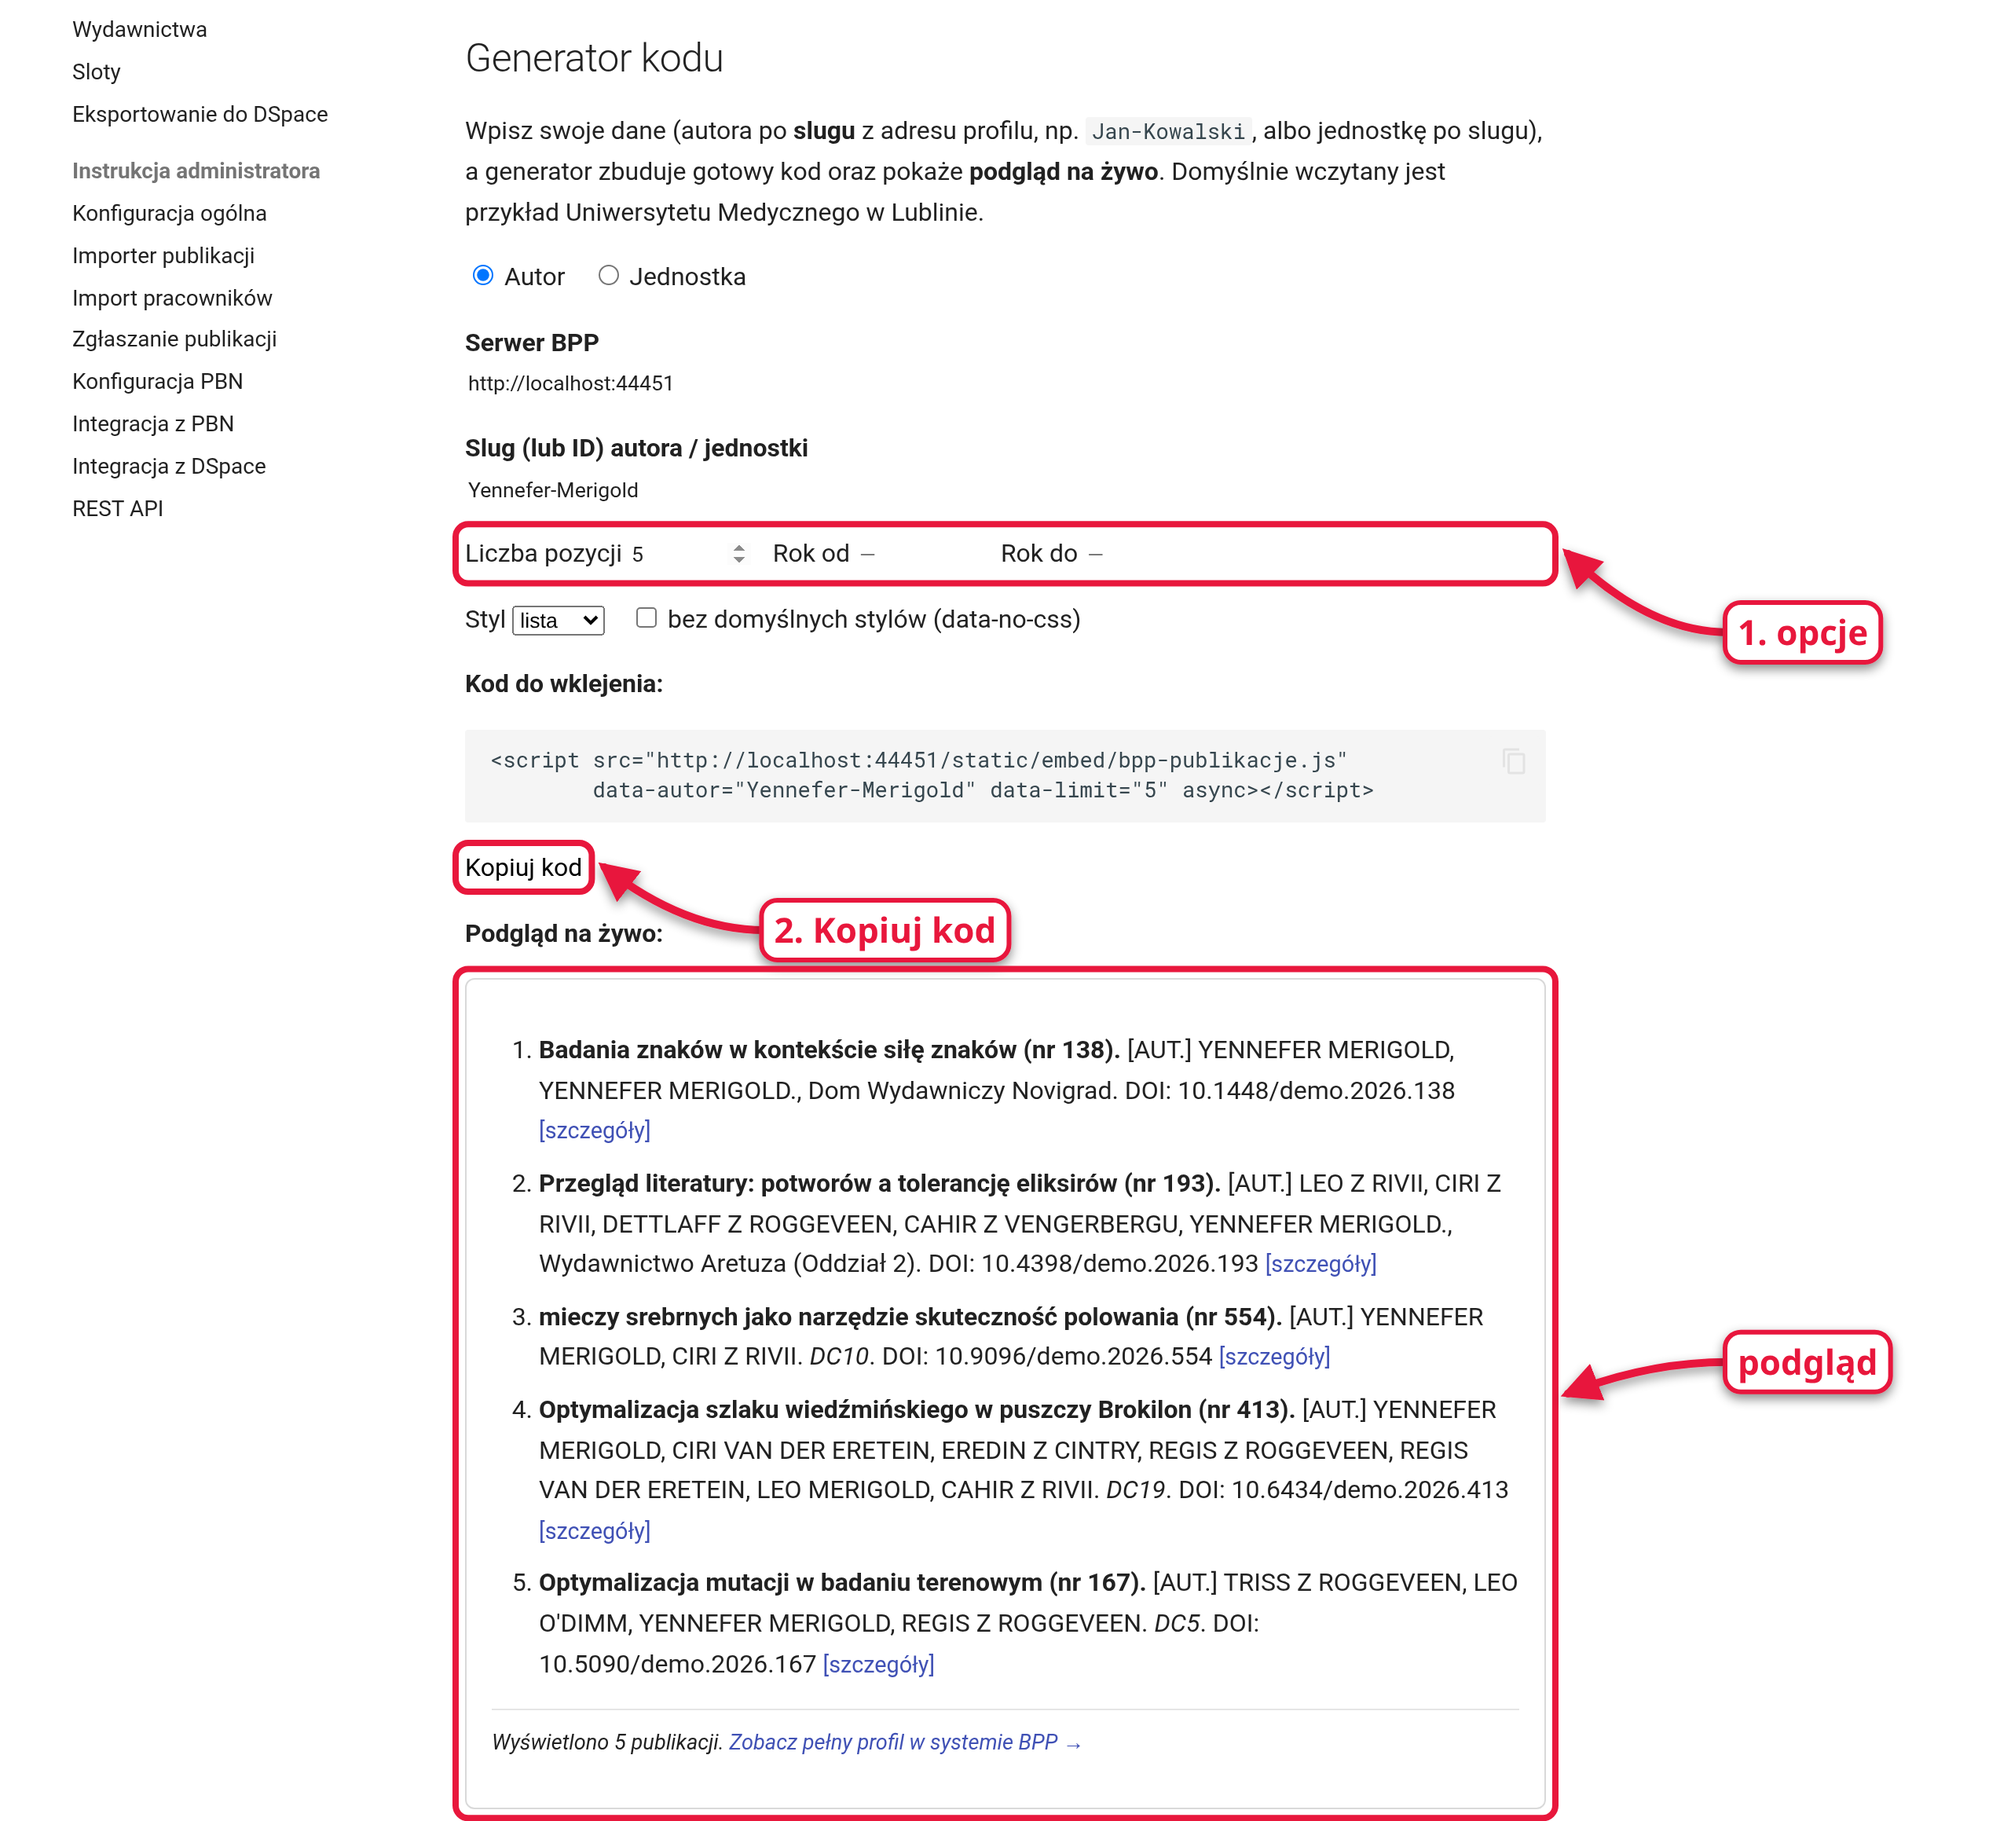
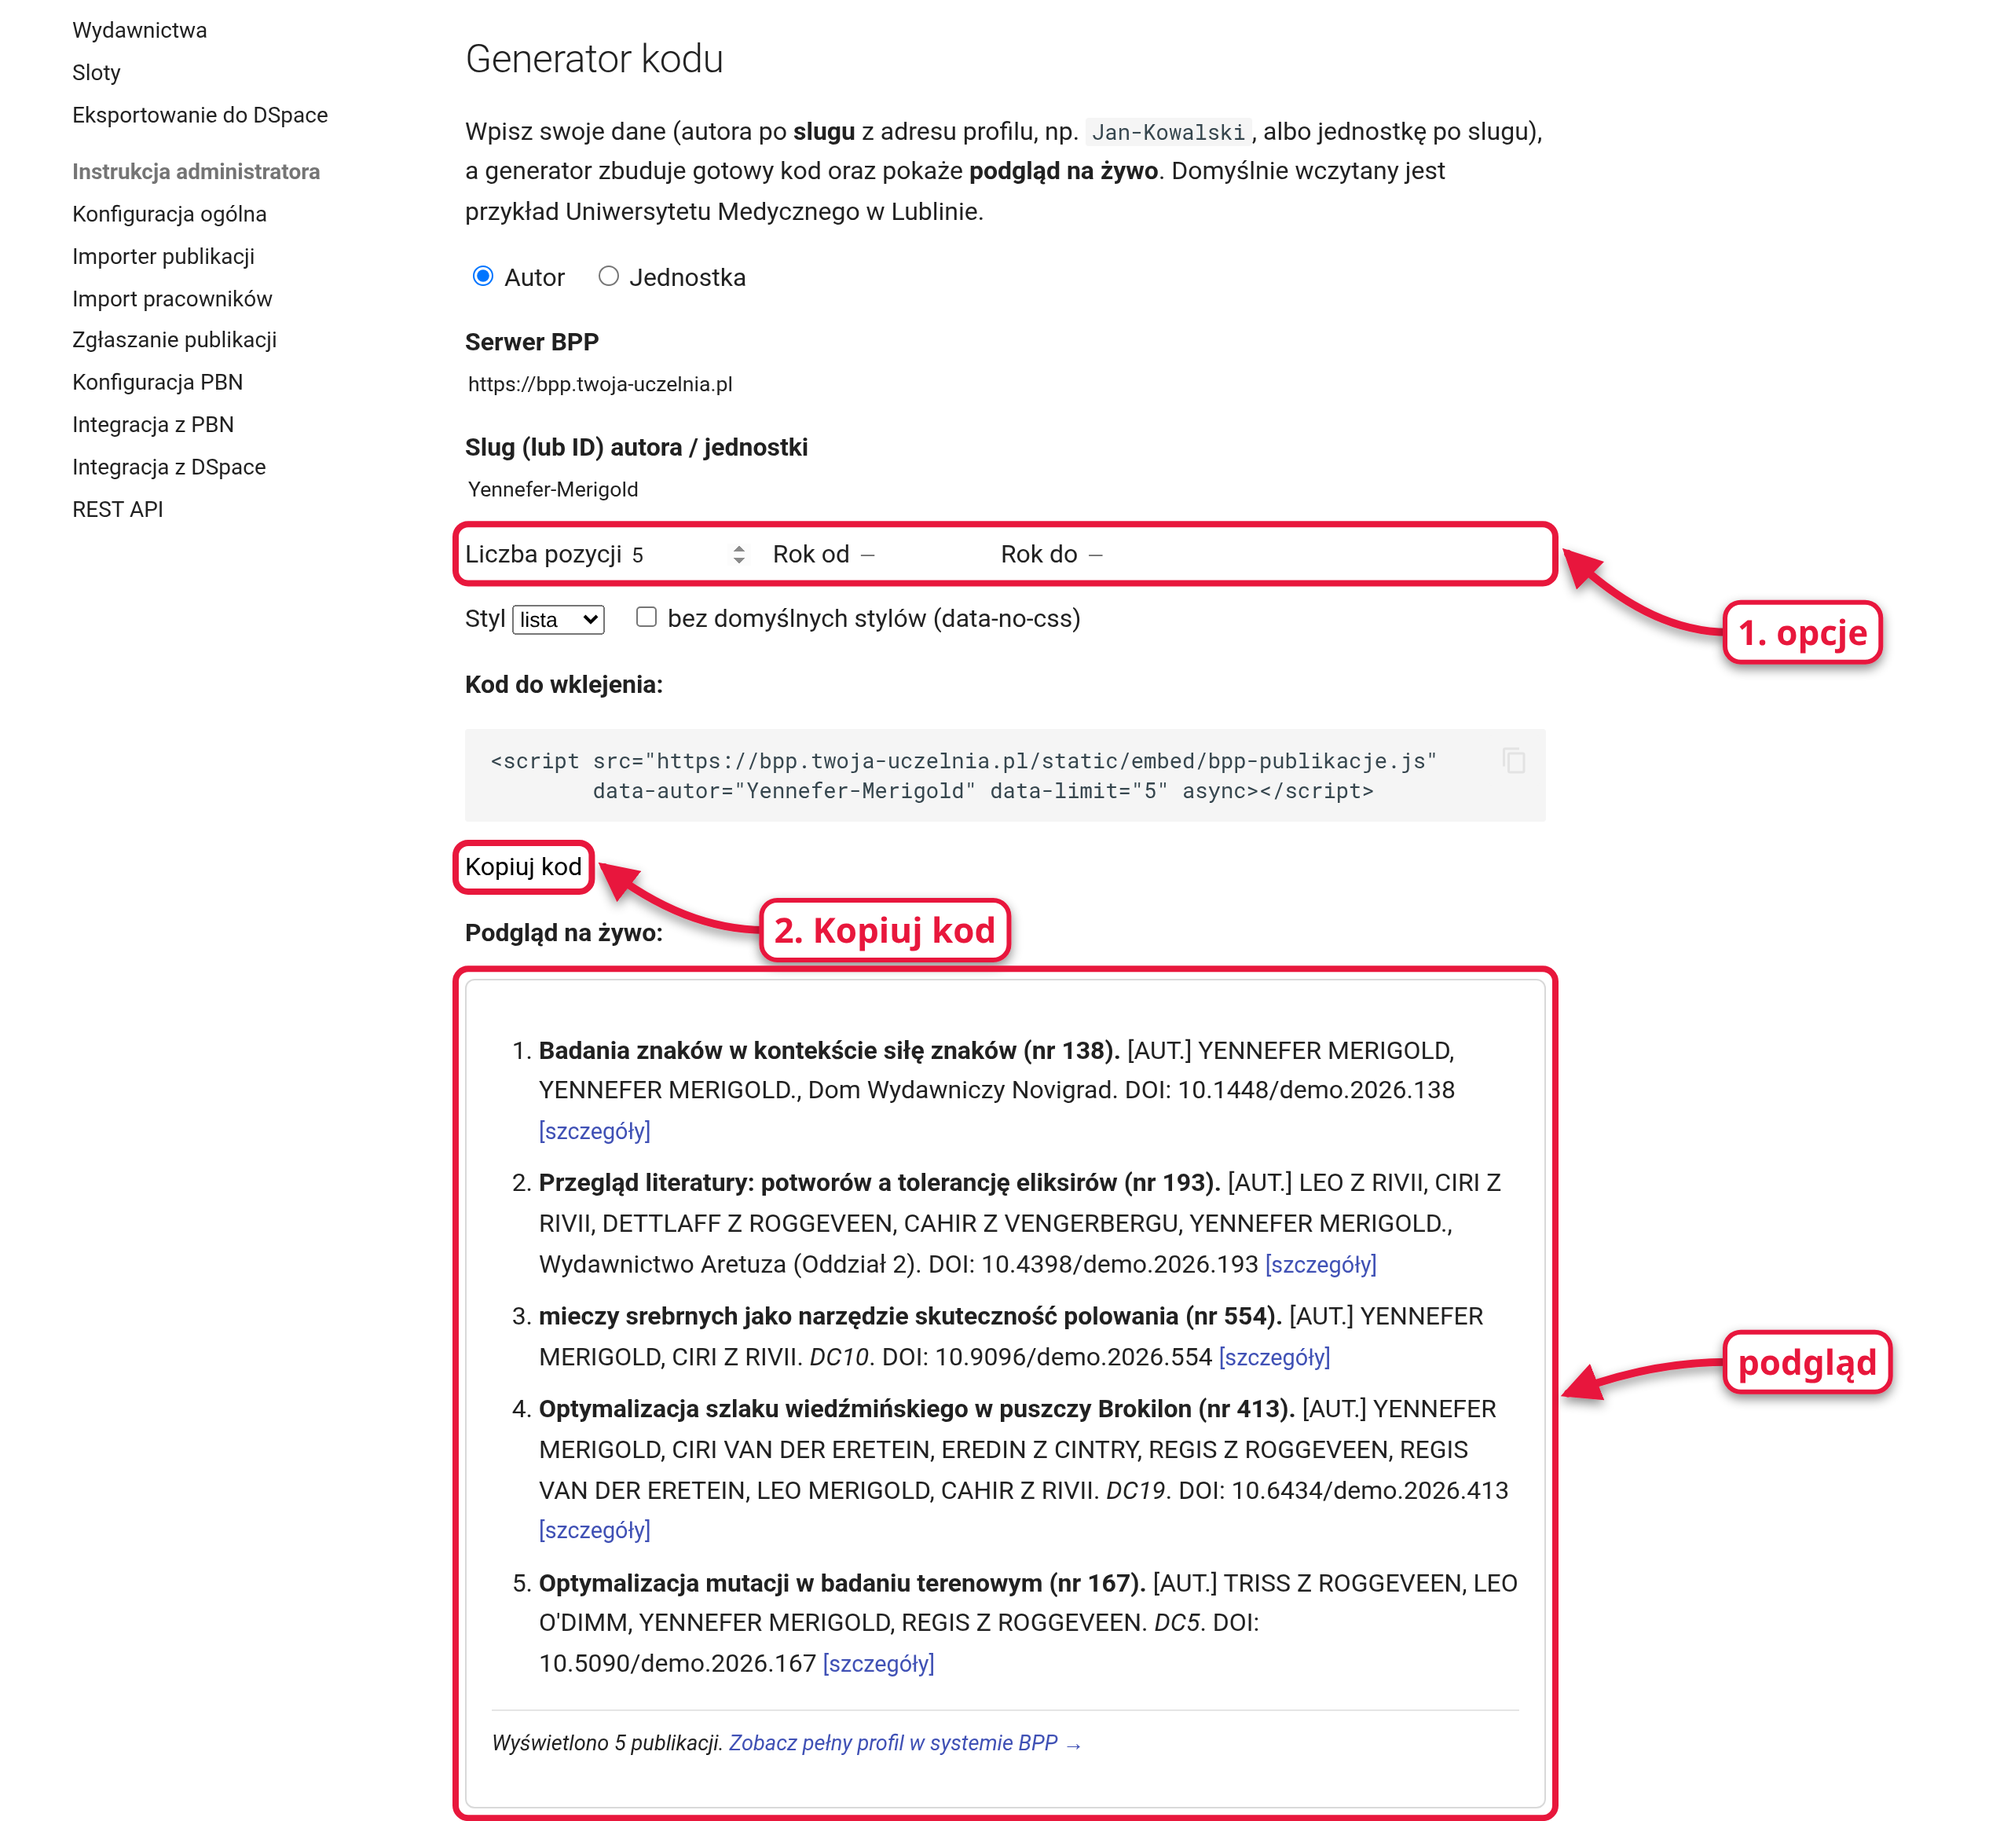
docs-screenshots: show a placeholder university domain instead of localhost

diff --git a/bin/docs-screenshots.py b/bin/docs-screenshots.py
@@ -206,6 +206,9 @@ def moj_profil_autora(page: Page, base: str, out: Path) -> None:
 # screenshots. Served by page.route() under a fake https:// origin, so the
 # widget really runs cross-origin, exactly as on a customer site.
 EXAMPLE_SITE = "https://katedra.example"
+# What readers should see as "your university's BPP" in URLs and code snippets.
+# Requests to it are proxied to the local stack (see proxy_public_bpp).
+PUBLIC_BPP = "https://bpp.twoja-uczelnia.pl"
 EXAMPLE_PAGE = """<!doctype html><html lang="pl"><head><meta charset="utf-8">
 <title>dr Yennefer z Vengerbergu — Katedra Magii Stosowanej</title>
 <style>
@@ -242,6 +245,21 @@ def page_box(page: Page, sel: str) -> dict:
         return {x: r.left + scrollX, y: r.top + scrollY, width: r.width, height: r.height}; }""",
         sel,
     )
+
+
+def proxy_public_bpp(page: Page, base: str) -> None:
+    """Answer PUBLIC_BPP requests from the local stack, so screenshots show a
+    realistic address instead of http://localhost:PORT. It also keeps every
+    request same-scheme (https page -> https "server"), so Chromium's
+    mixed-content and local-network checks never trigger."""
+
+    def handle(route):
+        local = base + route.request.url[len(PUBLIC_BPP) :]
+        resp = route.fetch(url=local)
+        body = resp.body().replace(base.encode(), PUBLIC_BPP.encode())
+        route.fulfill(response=resp, body=body)
+
+    page.route(PUBLIC_BPP + "/**", handle)
 
 
 def serve_docs_locally(page: Page) -> None:
@@ -296,7 +314,8 @@ def widget_publikacji(page: Page, base: str, out: Path) -> None:
 
     # 2. the code generator, pre-filled from the link
     serve_docs_locally(page)
-    page.goto(href)
+    proxy_public_bpp(page, base)
+    page.goto(href.replace(base, PUBLIC_BPP))
     page.wait_for_load_state("networkidle")
     page.fill("#g-limit", "5")
     # the preview re-renders 600 ms after input; wait for the 5-item version
@@ -332,7 +351,7 @@ def widget_publikacji(page: Page, base: str, out: Path) -> None:
 
     # 3. the result on "your" website
     autor = href.split("autor=")[1].split("&")[0]
-    html = EXAMPLE_PAGE.replace("__BASE__", base).replace("__AUTOR__", autor)
+    html = EXAMPLE_PAGE.replace("__BASE__", PUBLIC_BPP).replace("__AUTOR__", autor)
     page.route(
         EXAMPLE_SITE + "/**",
         lambda route: route.fulfill(body=html, content_type="text/html; charset=utf-8"),
@@ -380,11 +399,9 @@ def main() -> int:
     with sync_playwright() as pw:
         # channel="chromium" = full Chromium (not the headless shell), which
         # honours --lang, so native widgets read "Wybierz plik", not "Choose File".
-        # LocalNetworkAccessChecks: the widget scenarios load the local BPP
-        # (loopback) from https:// pages; Chromium would block that.
         browser = pw.chromium.launch(
             channel="chromium",
-            args=["--lang=pl", "--disable-features=LocalNetworkAccessChecks"],
+            args=["--lang=pl"],
         )
         ctx = browser.new_context(
             viewport=VIEWPORT, device_scale_factor=2, locale="pl-PL"

diff --git a/docs/deweloper/zrzuty-ekranu.md b/docs/deweloper/zrzuty-ekranu.md
@@ -58,6 +58,11 @@ zamykamy przed zrzutem.
   (`arrow`: `left`/`right`/`above`/`below`) i przesunięcie podpisu
   (`dx`/`dy`) dobieramy tak, żeby podpis stał w pustym miejscu.
 
+**Adresy.** Na zrzutach nie może być `localhost:PORT`. Skrypt podstawia
+lokalny BPP pod adres `https://bpp.twoja-uczelnia.pl` (`PUBLIC_BPP`,
+funkcja `proxy_public_bpp`) wszędzie tam, gdzie adres serwera widać na
+ekranie — np. w kodzie do wklejenia.
+
 **Strona „u klienta”.** Gdy trzeba pokazać efekt na zewnętrznej stronie
 (np. widget publikacji), używamy wymyślonej strony z motywu demo
 (`EXAMPLE_PAGE` w skrypcie, adres `https://katedra.example`), nigdy strony
